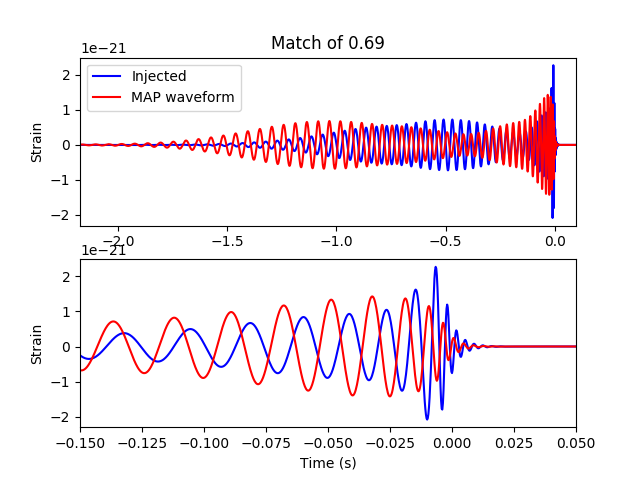
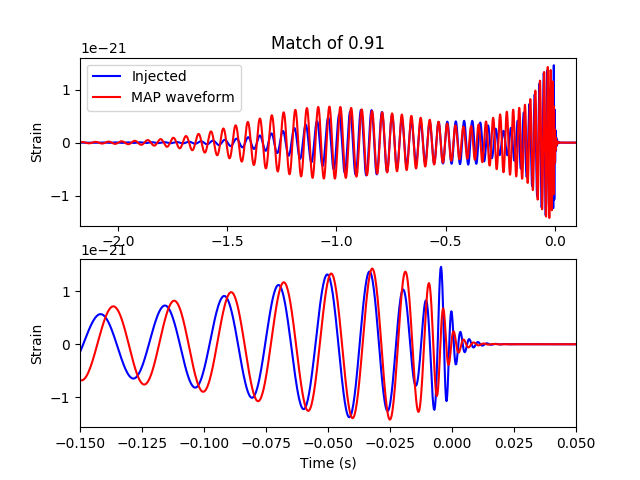
Tweaking phase and phi_JL

diff --git a/Inference/matchMapInj.py b/Inference/matchMapInj.py
@@ -1,5 +1,5 @@
-import matplotlib
-matplotlib.use('Agg')
+#import matplotlib
+#matplotlib.use('Agg')
 from pycbc.waveform import get_td_waveform
 from pycbc.filter import match
 from pycbc.psd import aLIGOZeroDetHighPower
@@ -26,7 +26,7 @@ maps=np.load("%s" % MAPname).item()
 #Convert to precessing coords
 inc_1,s1x,s1y,s1z,s2x,s2y,s2z=SimInspiralTransformPrecessingNewInitialConditions(
                       injected["theta_jn"], #theta_JN
-                      0, #phi_JL << ---- not sure how to compare this with MAP..
+                      1.1, #phi_JL << ---- not sure how to compare this with MAP..
                       injected["spin1_polar"], #theta1
                       injected["spin2_polar"], #theta2
                       0, #phi12  << ---- doesn't really affect results much
@@ -46,7 +46,8 @@ hp, hc = get_td_waveform(approximant=approx1,
                       distance=injected["distance"],
                       ra=injected["ra"],
                       dec=injected["dec"],
-                      delta_t=1.0/sample_rate)
+                      delta_t=1.0/sample_rate,
+                      coa_phase=1.5)
 
 # Find spin angles from MAP Cartesian values
 s1_a=maps["spin1_a"]
